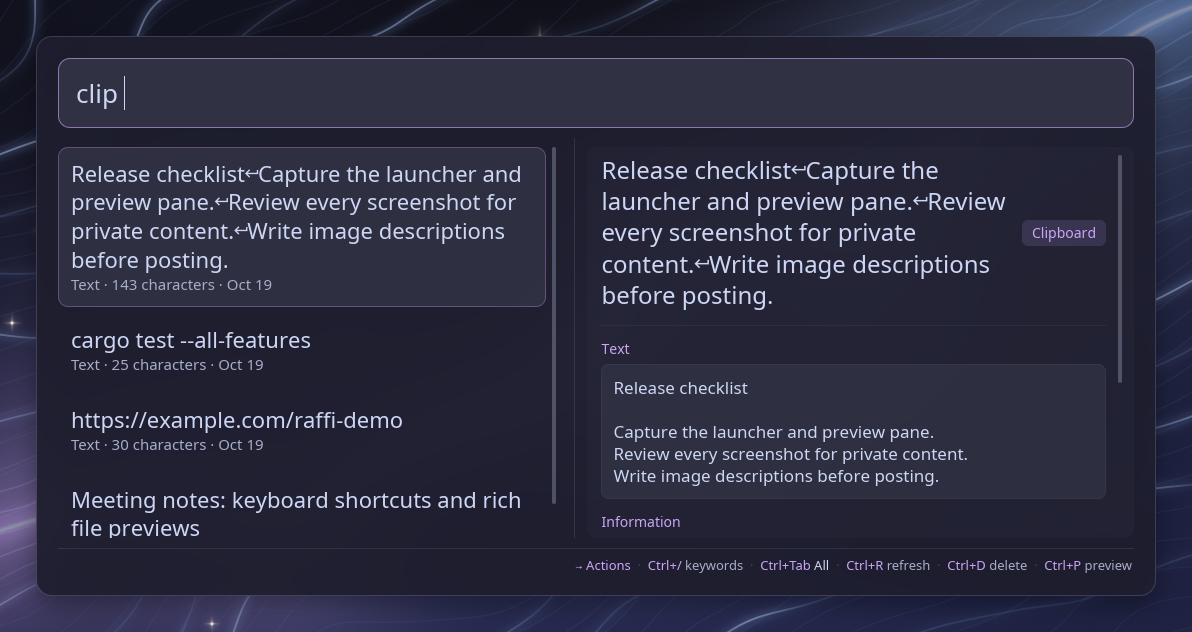
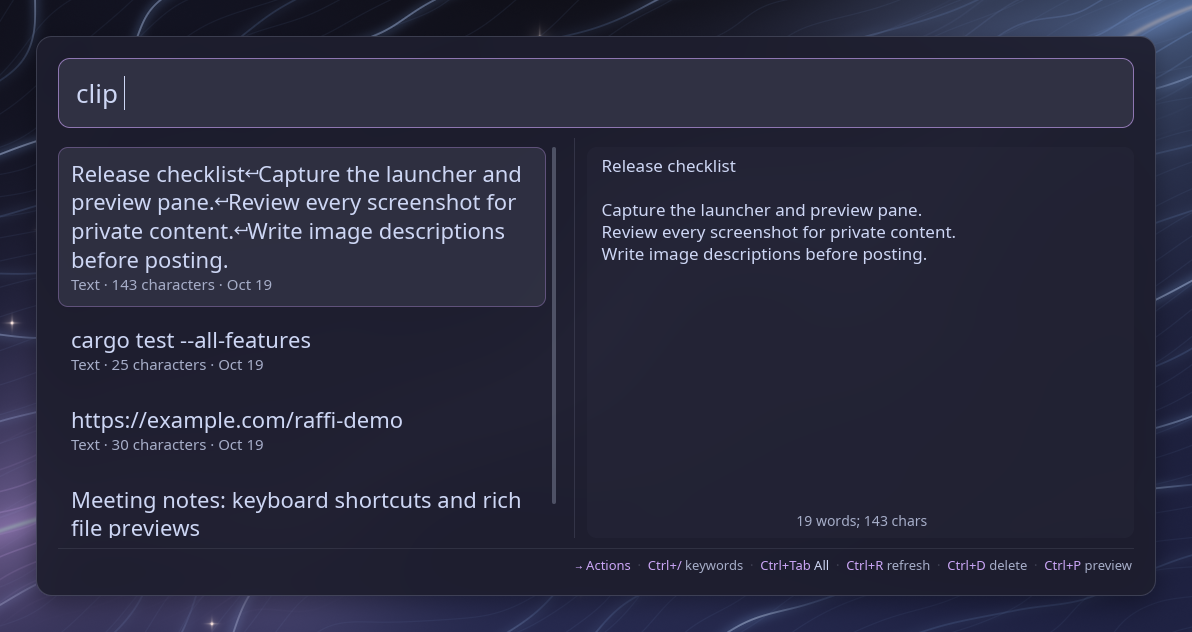
feat: Redesign clipboard history preview pane
Redesigned the clipboard history preview to resemble Alfred's clipboard
viewer. Removed the title, box, and metadata, showing only the bare text
with a centered muted summary line underneath displaying word and
character counts.

diff --git a/src/ui/wayland/view.rs b/src/ui/wayland/view.rs
@@ -1660,6 +1660,10 @@ impl LauncherApp {
                 .wrapping(iced::widget::text::Wrapping::WordOrGlyph)
         };
 
+        if let Some(PreviewBody::Plain { .. }) = data.bodies.first() {
+            return self.render_plain_preview(data, ps);
+        }
+
         let mut col = Column::new().spacing(14).width(Length::Fill);
 
         // Image previews fill the whole pane: the image is rendered first at the
@@ -1695,12 +1699,14 @@ impl LauncherApp {
         }
 
         let mut title_col = Column::new().spacing(2).width(Length::Fill);
-        title_col = title_col.push(
-            text(data.title)
-                .size(ps.title)
-                .color(ps.text_main)
-                .font(ps.font),
-        );
+        if !data.title.is_empty() {
+            title_col = title_col.push(
+                text(data.title)
+                    .size(ps.title)
+                    .color(ps.text_main)
+                    .font(ps.font),
+            );
+        }
         if let Some(sub) = data.subtitle {
             title_col = title_col.push(text(sub).size(ps.small).color(ps.text_muted).font(ps.font));
         }
@@ -1787,6 +1793,8 @@ impl LauncherApp {
                     }
                     col = col.push(section);
                 }
+                // Only rendered as the sole body, by `render_plain_preview`.
+                PreviewBody::Plain { .. } => {}
                 PreviewBody::AnsiText {
                     heading: h,
                     content,
@@ -1963,6 +1971,69 @@ impl LauncherApp {
 
         let pane_bg = ps.bg;
         container(scroll)
+            .padding(iced::Padding {
+                top: 8.0,
+                right: PREVIEW_PANE_RIGHT_PADDING,
+                bottom: 8.0,
+                left: PREVIEW_PANE_LEFT_PADDING,
+            })
+            .width(Length::Fill)
+            .height(Length::Fill)
+            .style(move |_theme| container::Style {
+                background: Some(iced::Background::Color(pane_bg)),
+                border: iced::Border {
+                    radius: 10.0.into(),
+                    ..Default::default()
+                },
+                ..Default::default()
+            })
+            .into()
+    }
+
+    /// Bare text with a centred summary line, no title, badge, box or metadata.
+    fn render_plain_preview(&self, data: PreviewData, ps: PreviewStyle) -> Element<'_, Message> {
+        let t = self.view.theme;
+        let Some(PreviewBody::Plain { content, footer }) = data.bodies.into_iter().next() else {
+            return Space::new().into();
+        };
+        let body = scrollable(
+            container(
+                text(content)
+                    .size(ps.text)
+                    .color(ps.text_main)
+                    .font(ps.font)
+                    .wrapping(iced::widget::text::Wrapping::WordOrGlyph)
+                    .width(Length::Fill),
+            )
+            .padding(iced::Padding {
+                top: 0.0,
+                right: PREVIEW_CONTENT_RIGHT_PADDING,
+                bottom: 0.0,
+                left: 0.0,
+            }),
+        )
+        .id(self.view.preview_scrollable_id.clone())
+        .direction(slim_scrollbar())
+        .style(scrollable_style(t))
+        .width(Length::Fill)
+        .height(Length::Fill);
+
+        let mut col = Column::new().spacing(8).width(Length::Fill).push(body);
+        if let Some(footer) = footer {
+            col = col.push(
+                container(
+                    text(footer)
+                        .size(ps.small)
+                        .color(ps.text_muted)
+                        .font(ps.font),
+                )
+                .width(Length::Fill)
+                .align_x(iced::Alignment::Center),
+            );
+        }
+
+        let pane_bg = ps.bg;
+        container(col)
             .padding(iced::Padding {
                 top: 8.0,
                 right: PREVIEW_PANE_RIGHT_PADDING,

diff --git a/src/ui/wayland/preview.rs b/src/ui/wayland/preview.rs
@@ -6,7 +6,7 @@ use std::path::Path;
 use chrono::{DateTime, Local};
 
 use super::browser::read_directory;
-use super::clipboard::{ClipItem, ItemKind};
+use super::clipboard::ClipItem;
 use super::command_list::{CommandItem, CommandListState};
 use super::devtools::DevRow;
 use super::file_preview::FilePreviewOutput;
@@ -359,6 +359,12 @@ pub(crate) enum PreviewBody {
         content: String,
         truncated: bool,
     },
+    /// The text alone, with no header, box or metadata, and a muted summary
+    /// line under it (clipboard text, in the style of Alfred's clipboard viewer).
+    Plain {
+        content: String,
+        footer: Option<String>,
+    },
     /// ANSI-styled multiline text block (for Script Filter output), with an optional heading.
     AnsiText {
         heading: Option<String>,
@@ -388,6 +394,29 @@ pub(crate) enum PreviewBody {
         entries: Vec<(String, bool)>,
         total_count: usize,
     },
+}
+
+/// "3 words; 33 chars" for a text preview. A cut preview only knows the
+/// full length, so it reports that alone.
+fn text_summary(text: &str, full_len: Option<usize>) -> String {
+    match full_len {
+        Some(chars) => format!("{chars} chars"),
+        None => format!(
+            "{} {}; {} {}",
+            text.split_whitespace().count(),
+            if text.split_whitespace().count() == 1 {
+                "word"
+            } else {
+                "words"
+            },
+            text.chars().count(),
+            if text.chars().count() == 1 {
+                "char"
+            } else {
+                "chars"
+            },
+        ),
+    }
 }
 
 /// Complete structured model for the right-hand preview pane.
@@ -1820,15 +1849,12 @@ impl LauncherApp {
                         truncated: false,
                     });
                 } else if !preview.text.is_empty() {
-                    let heading = if preview.kind == ItemKind::Html {
-                        "Plain text"
-                    } else {
-                        "Text"
-                    };
-                    bodies.push(PreviewBody::Prose {
-                        heading: Some(heading.to_string()),
+                    bodies.push(PreviewBody::Plain {
                         content: preview.text.clone(),
-                        truncated: preview.text_truncated,
+                        footer: Some(text_summary(
+                            &preview.text,
+                            preview.text_truncated.then_some(item.text_len),
+                        )),
                     });
                 }
                 let formats = preview
@@ -1858,8 +1884,9 @@ impl LauncherApp {
         metadata.push(("Ctrl+D".to_string(), "Delete this entry".to_string()));
         metadata.push(("Ctrl+R".to_string(), "Refresh the list".to_string()));
 
+        // The row already shows the item: the pane opens straight on its text.
         PreviewData {
-            title: item.title(),
+            title: String::new(),
             subtitle: None,
             badge: Some("Clipboard".to_string()),
             icon: None,

diff --git a/src/ui/wayland/tests.rs b/src/ui/wayland/tests.rs
@@ -4252,9 +4252,15 @@ fn test_clipboard_previews_are_bound_to_session_and_item() {
         Ok(clip_text_preview("beta\nsecond line")),
     ));
     let preview = app.resolve_selected_preview().unwrap();
+    assert!(
+        preview.title.is_empty(),
+        "the pane opens on the text, without a title"
+    );
     assert!(matches!(
         preview.bodies.first(),
-        Some(PreviewBody::Prose { content, .. }) if content == "beta\nsecond line"
+        Some(PreviewBody::Plain { content, footer })
+            if content == "beta\nsecond line"
+                && footer.as_deref() == Some("3 words; 16 chars")
     ));
 
     let mut image = clip_text_preview("");
